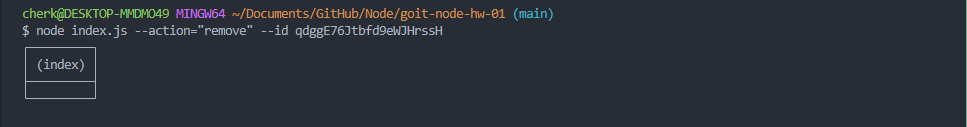
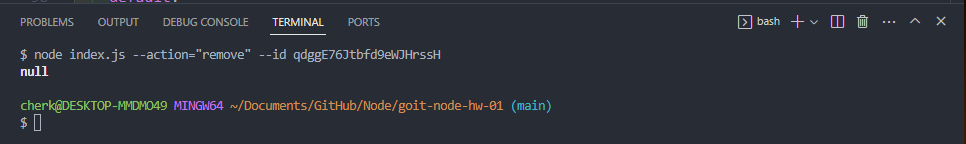
added `await` to removedContact

diff --git a/contacts.js b/contacts.js
@@ -27,7 +27,7 @@ const addContact = async (data) => {
 
 const removeContact = async (contactId) => {
   const contacts = await listContacts();
-  const i = contacts.findIndex((contact) => contact.id === contactId);
+  const i = contacts.findIndex(({ id }) => id === contactId);
   if (i === -1) {
     return null;
   }

diff --git a/index.js b/index.js
@@ -31,7 +31,7 @@ const invokeAction = async ({ action, id, name, email, phone }) => {
       break;
 
     case "remove":
-      const removedContact = contacts.removeContact(id);
+      const removedContact = await contacts.removeContact(id);
       console.table(removedContact);
       break;
 
